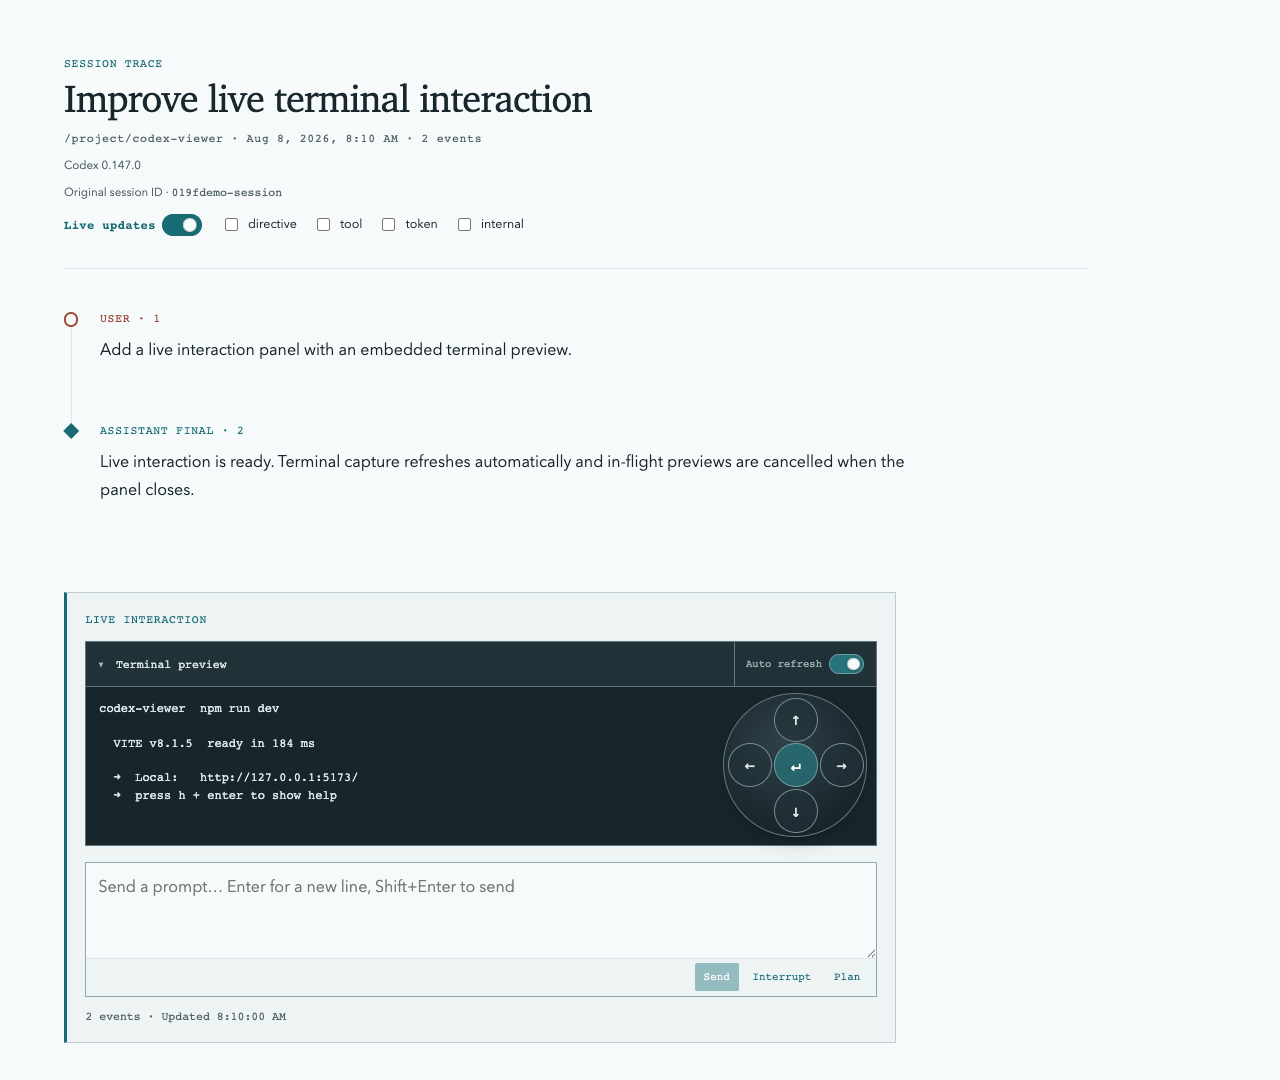
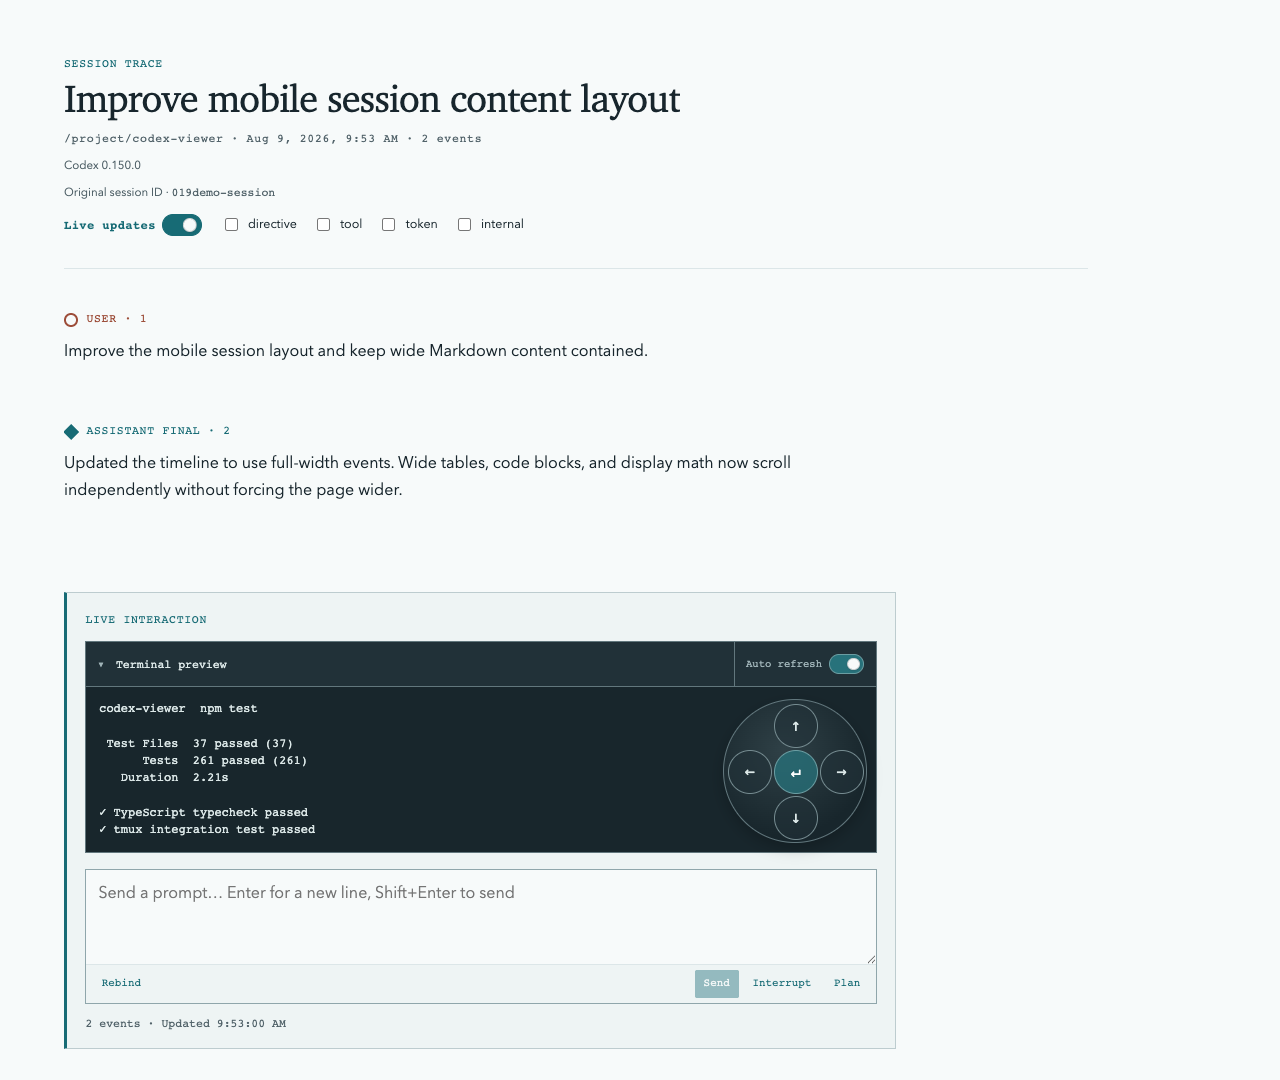
fix: improve mobile session content layout

diff --git a/src/client/styles/app.css b/src/client/styles/app.css
@@ -253,34 +253,63 @@
 }
 .event-toggle { flex: 0 0 auto; margin-top: 0; }
 .timeline { padding: 2.5rem 0 0; margin: 0; list-style: none; }
-.trace-event { --trace-color: var(--current); position: relative; display: grid; grid-template-columns: 2.25rem minmax(0, 1fr); padding-bottom: 2.5rem; content-visibility: auto; contain-intrinsic-size: auto 12rem; }
-.trace-event::before { content: ""; position: absolute; left: .45rem; top: .85rem; bottom: -.85rem; width: 1px; background: var(--mist); }
-.trace-event:last-child::before { display: none; }
+.trace-event { --trace-color: var(--current); position: relative; display: block; min-width: 0; padding-bottom: 2.5rem; content-visibility: auto; contain-intrinsic-size: auto 12rem; }
 .trace-event.human { --trace-color: var(--human); }
 .trace-event.tool { --trace-color: var(--signal); }
 .trace-event.user_input { --trace-color: var(--human); }
 .trace-event.directive { --trace-color: #7a4f2d; }
 .trace-event.internal { --trace-color: #68777c; }
 .trace-event.token { --trace-color: #496c65; }
-.trace-mark { position: relative; z-index: 1; width: .9rem; height: .9rem; margin-top: .22rem; background: var(--paper); border: 2px solid var(--trace-color); border-radius: 50%; }
+.trace-mark { position: absolute; z-index: 1; top: .22rem; left: 0; width: .9rem; height: .9rem; background: var(--paper); border: 2px solid var(--trace-color); border-radius: 50%; }
 .tool .trace-mark { border-radius: 1px; }
 .user_input .trace-mark { border-radius: 50% 50% 50% 2px; }
 .directive .trace-mark { border-style: dashed; border-radius: 1px; }
 .final .trace-mark { background: var(--current); transform: rotate(45deg) scale(.78); border-radius: 0; }
 .internal .trace-mark { border-style: dotted; }
 .token .trace-mark { border-radius: 50%; border-style: double; }
-.trace-event article { min-width: 0; max-width: 52rem; }
+.trace-event article { min-width: 0; width: 100%; max-width: 52rem; }
 .trace-event article > p { line-height: 1.72; }
 .event-label { margin-bottom: .55rem; color: var(--trace-color); text-transform: uppercase; }
+.trace-event .event-label { padding-inline-start: 1.4rem; }
+.user_input .trace-mark { top: 1.22rem; left: 1.1rem; }
 .message-body :is(p, li) { line-height: 1.7; }
-.message-body pre, .tool-detail pre, .directive-block {
+.message-body :is(p, h1, h2, h3, h4, h5, h6, li, a, code) {
+  min-width: 0; overflow-wrap: anywhere;
+}
+.markdown-scroll-region {
+  max-width: 100%; margin-block: 1em; overflow-x: auto; overflow-y: hidden;
+  border: 1px solid var(--mist); overscroll-behavior-inline: contain;
+  scrollbar-color: #8fa6ab transparent; scrollbar-width: thin;
+  -webkit-overflow-scrolling: touch;
+}
+.markdown-scroll-region:focus-visible {
+  outline: 2px solid var(--signal); outline-offset: 2px;
+}
+.markdown-scroll-region::-webkit-scrollbar { width: 10px; height: 10px; }
+.markdown-scroll-region::-webkit-scrollbar-track,
+.markdown-scroll-region::-webkit-scrollbar-corner { background: transparent; }
+.markdown-scroll-region::-webkit-scrollbar-thumb {
+  background-color: #8fa6ab; border: 2px solid transparent; border-radius: 999px;
+  background-clip: padding-box;
+}
+.markdown-scroll-code { background: #213138; border-left: 3px solid var(--current); }
+.markdown-scroll-code pre {
+  width: max-content; min-width: 100%; max-width: none; margin: 0; overflow: visible;
+  padding: 1rem; color: #dce8e8; background: transparent; white-space: pre;
+}
+.markdown-scroll-code code { overflow-wrap: normal; }
+.markdown-scroll-table { border: 0; }
+.markdown-scroll-table table { width: max-content; max-width: none; border-collapse: collapse; }
+.markdown-scroll-table :is(th, td) {
+  padding: .45rem .65rem; border: 1px solid var(--mist); text-align: start;
+}
+.markdown-scroll-math { padding: .2rem .35rem; border: 0; }
+.markdown-scroll-math .katex-display { width: max-content; min-width: 100%; margin: 0; }
+.tool-detail pre, .directive-block {
   max-width: 100%; overflow: auto; padding: 1rem; color: #dce8e8; background: #213138;
   border-left: 3px solid var(--current); white-space: pre-wrap; overflow-wrap: anywhere;
 }
 .message-body code { font-family: var(--mono-font); font-size: .86em; }
-.message-body .katex-display {
-  max-width: 100%; overflow-x: auto; overflow-y: hidden; padding: .2rem 0;
-}
 .message-body a { color: #075f70; text-underline-offset: .18em; }
 .image-placeholder { color: var(--ink-soft); font-style: italic; }
 .trace-event article button, .load-more, .error-state button {
@@ -352,7 +381,7 @@
 .token-usage dd { margin: 0; font-variant-numeric: tabular-nums; }
 .token-usage-unavailable { margin: 0; color: var(--ink-soft); font-size: .8rem; }
 .truncated { color: #7a4f2d; font-size: .8rem; }
-.load-more { margin-left: 2.25rem; }
+.load-more { margin-left: 0; }
 .diagnostics, .error-state {
   margin: 1.25rem 0; padding: .9rem 1rem; color: #653e2d; background: #fff4e9; border-left: 3px solid var(--signal);
 }
@@ -571,14 +600,15 @@
 @media (max-width: 480px) {
   .filters { grid-template-columns: minmax(0, 1fr); }
   .archive-scope { grid-column: auto; }
+  .message-body :is(ul, ol) { padding-inline-start: 1.25rem; }
+  .message-body :is(ul, ol) :is(ul, ol) { padding-inline-start: 1rem; }
+  .message-body blockquote { margin-inline: .65rem 0; padding-inline-start: .75rem; }
 }
 @media (prefers-reduced-motion: no-preference) {
-  .trace-event::before { animation: trace-draw 240ms ease-out both; transform-origin: top; }
   .disclosure-mark { transition: transform 140ms ease-out; }
   .plan-toggle-mark { transition: transform 140ms ease-out; }
   .auto-refresh-thumb { transition: transform 140ms ease; }
   .refresh-mark.active { animation: refresh-turn 800ms linear infinite; }
   .page-jump-control { transition: opacity 180ms ease, transform 180ms ease, color 120ms ease, background 120ms ease, border-color 120ms ease; }
-  @keyframes trace-draw { from { transform: scaleY(0); } to { transform: scaleY(1); } }
   @keyframes refresh-turn { to { transform: rotate(360deg); } }
 }

diff --git a/tests/client/session-browser-components.test.tsx b/tests/client/session-browser-components.test.tsx
@@ -232,6 +232,59 @@ describe("session browser components", () => {
     expect(document.querySelector(".katex-display .katex")).toBeInTheDocument();
     expect(document.querySelectorAll(".katex")).toHaveLength(3);
     expect(document.querySelectorAll(".katex-display .katex")).toHaveLength(1);
+    expect(document.querySelector("[node]")).toBeNull();
+  });
+
+  it("gives tables, code blocks, and display math independent accessible scroll regions", () => {
+    render(<MessageItem item={{
+      kind: "message", id: "message-wide-markdown", ordinal: 11, timestamp: null,
+      role: "assistant", phase: "final", itemType: null,
+      markdown: [
+        "| Column | Value |",
+        "| --- | --- |",
+        "| alpha | beta |",
+        "",
+        "```text",
+        "a very wide line that keeps its original code formatting",
+        "```",
+        "",
+        "$$",
+        "\\sum_{i=1}^{n} i = \\frac{n(n+1)}{2}",
+        "$$",
+      ].join("\n"),
+    }} />);
+
+    const tableRegion = screen.getByRole("region", { name: "Scrollable table" });
+    const codeRegion = screen.getByRole("region", { name: "Scrollable code block" });
+    const mathRegion = screen.getByRole("region", { name: "Scrollable math formula" });
+    expect(tableRegion).toHaveAttribute("tabindex", "0");
+    expect(codeRegion).toHaveAttribute("tabindex", "0");
+    expect(mathRegion).toHaveAttribute("tabindex", "0");
+    expect(tableRegion.querySelector(":scope > table")).toBeInTheDocument();
+    expect(codeRegion.querySelector(":scope > pre > code")).toBeInTheDocument();
+    expect(mathRegion.querySelector(":scope > .katex-display")).toBeInTheDocument();
+    expect(document.querySelector("[node]")).toBeNull();
+  });
+
+  it("keeps long prose, list items, links, inline code, and tokens as ordinary Markdown", () => {
+    const longToken = "unbroken-token-".repeat(20);
+    render(<MessageItem item={{
+      kind: "message", id: "message-wrapping", ordinal: 12, timestamp: null,
+      role: "assistant", phase: "final", itemType: null,
+      markdown: [
+        `Paragraph ${longToken}`,
+        "",
+        `- List ${longToken}`,
+        "",
+        `[Long link](https://example.com/${longToken}) and \`${longToken}\``,
+      ].join("\n"),
+    }} />);
+
+    expect(screen.getByText(new RegExp(`Paragraph ${longToken}`))).toBeInTheDocument();
+    expect(screen.getByText(new RegExp(`List ${longToken}`))).toBeInTheDocument();
+    expect(screen.getByRole("link", { name: "Long link" })).toBeInTheDocument();
+    expect(screen.getByText(longToken, { selector: "code" })).toBeInTheDocument();
+    expect(screen.queryByRole("region")).toBeNull();
   });
 
   it("leaves math syntax in code untouched and keeps invalid math readable", () => {

diff --git a/src/client/components/MessageItem.tsx b/src/client/components/MessageItem.tsx
@@ -3,7 +3,7 @@ import { gfmFromMarkdown } from "mdast-util-gfm";
 import { toString } from "mdast-util-to-string";
 import { gfm } from "micromark-extension-gfm";
 import { memo, useId, useMemo, useState } from "react";
-import ReactMarkdown, { defaultUrlTransform } from "react-markdown";
+import ReactMarkdown, { defaultUrlTransform, type ExtraProps } from "react-markdown";
 import rehypeKatex from "rehype-katex";
 import remarkGfm from "remark-gfm";
 import remarkMath from "remark-math";
@@ -25,7 +25,53 @@ const MARKDOWN_COMPONENTS = {
       [Image omitted{alt ? `: ${alt}` : ""}]
     </span>
   ),
+  table: ({ node: _node, children, ...props }: React.ComponentProps<"table"> & ExtraProps) => (
+    <MarkdownScrollRegion label="Scrollable table" kind="table">
+      <table {...props}>{children}</table>
+    </MarkdownScrollRegion>
+  ),
+  pre: ({ node: _node, children, ...props }: React.ComponentProps<"pre"> & ExtraProps) => (
+    <MarkdownScrollRegion label="Scrollable code block" kind="code">
+      <pre {...props}>{children}</pre>
+    </MarkdownScrollRegion>
+  ),
+  span: ({
+    node: _node,
+    className,
+    children,
+    ...props
+  }: React.ComponentProps<"span"> & ExtraProps) => {
+    if (className?.split(" ").includes("katex-display")) {
+      return (
+        <MarkdownScrollRegion label="Scrollable math formula" kind="math">
+          <span className={className} {...props}>{children}</span>
+        </MarkdownScrollRegion>
+      );
+    }
+    return <span className={className} {...props}>{children}</span>;
+  },
 };
+
+function MarkdownScrollRegion({
+  children,
+  kind,
+  label,
+}: {
+  children: React.ReactNode;
+  kind: "code" | "math" | "table";
+  label: string;
+}) {
+  return (
+    <div
+      className={`markdown-scroll-region markdown-scroll-${kind}`}
+      role="region"
+      aria-label={label}
+      tabIndex={0}
+    >
+      {children}
+    </div>
+  );
+}
 
 export function safeUrlTransform(url: string): string {
   try {

diff --git a/tests/client/interaction-panel.test.tsx b/tests/client/interaction-panel.test.tsx
@@ -217,7 +217,6 @@ describe("interaction panel", () => {
       .toHaveAttribute("aria-expanded", "true");
     const content = screen.getByLabelText("Terminal preview content");
     expect(content).toHaveAttribute("tabindex", "0");
-    expect(content).toHaveFocus();
     expect(content.scrollTop).toBe(480);
     scrollHeight.mockRestore();
   });
@@ -260,7 +259,6 @@ describe("interaction panel", () => {
     await user.click(header);
     expect(screen.queryByLabelText("Terminal preview content")).not.toBeInTheDocument();
     await user.click(header);
-    expect(screen.getByLabelText("Terminal preview content")).toHaveFocus();
     expect(screen.getByLabelText("Terminal preview content").scrollTop).toBe(640);
     scrollHeight.mockRestore();
   });
@@ -287,23 +285,6 @@ describe("interaction panel", () => {
     expect(refreshed).toBe(content);
     expect(refreshed).toHaveTextContent("fresh terminal output");
     expect(refreshed.scrollTop).toBe(120);
-  });
-
-  it("keeps focus on the toggle when an expanded preview is empty", async () => {
-    const handlers = props(interaction("connected"));
-    const user = userEvent.setup();
-    const { rerender } = render(<InteractionPanel {...handlers} />);
-    const header = screen.getByRole("button", { name: "Terminal preview" });
-
-    await user.click(header);
-    rerender(<InteractionPanel
-      {...handlers}
-      preview={{ content: "", truncated: false, capturedAt: "2026-08-08T12:00:00.000Z" }}
-    />);
-
-    expect(header).toHaveFocus();
-    expect(screen.queryByLabelText("Terminal preview content")).not.toBeInTheDocument();
-    expect(screen.getByText("The terminal pane is empty.")).toBeInTheDocument();
   });
 
   it("replaces timestamp and manual refresh with a default-on auto-refresh switch", async () => {

diff --git a/src/client/components/InteractionPanel.tsx b/src/client/components/InteractionPanel.tsx
@@ -55,7 +55,6 @@ export function InteractionPanel({
   const previewAutoRefreshLabelId = useId();
   const previewContent = useRef<HTMLPreElement | null>(null);
   const scrollOnExpand = useRef(preview !== null);
-  const focusOnExpand = useRef(false);
   const messageBytes = new TextEncoder().encode(message.replace(/\r\n?/g, "\n")).byteLength;
   const messageTooLarge = messageBytes > MAX_INTERACTION_MESSAGE_BYTES;
   const messageIsBlank = message.trim().length === 0;
@@ -63,17 +62,10 @@ export function InteractionPanel({
   useLayoutEffect(() => {
     if (!previewExpanded || preview === null) return;
     const content = previewContent.current;
-    if (content === null) {
-      focusOnExpand.current = false;
-      return;
-    }
+    if (content === null) return;
     if (scrollOnExpand.current) {
       content.scrollTop = content.scrollHeight;
       scrollOnExpand.current = false;
-    }
-    if (focusOnExpand.current) {
-      content.focus({ preventScroll: true });
-      focusOnExpand.current = false;
     }
   }, [preview, previewExpanded]);
   useEffect(() => {
@@ -146,7 +138,6 @@ export function InteractionPanel({
       return;
     }
     scrollOnExpand.current = true;
-    focusOnExpand.current = true;
     setPreviewExpanded(true);
     if (!previewAutoRefresh && pageVisible) {
       void onPreviewTerminal().catch(() => undefined);

diff --git a/tests/client/session-browser-items.test.tsx b/tests/client/session-browser-items.test.tsx
@@ -95,6 +95,30 @@ describe("session reader items", () => {
     expect(screen.getByRole("button", { name: "Load more events" })).toBeEnabled();
   });
 
+  it("keeps one mark per full-width timeline event", () => {
+    render(<Timeline
+      items={[
+        message("message-mark", 1, "Message body"),
+        { kind: "internal", id: "internal-mark", ordinal: 2, timestamp: null,
+          eventType: "reasoning", summary: "Internal body" },
+      ]}
+      sessionId={SESSION_ID}
+      cursor={TIMELINE_CURSOR}
+      hasMore
+      loading={false}
+      onLoadMore={vi.fn()}
+      onTimelineConflict={vi.fn()}
+    />);
+
+    const events = document.querySelectorAll(".trace-event");
+    expect(events).toHaveLength(2);
+    for (const event of events) {
+      const mark = event.querySelector(":scope > .trace-mark");
+      expect(mark).toHaveAttribute("aria-hidden", "true");
+      expect(event.querySelector(":scope > article")).toBeInTheDocument();
+    }
+  });
+
   it("loads tool and directive details concurrently without changing their cursor", async () => {
     const pending: Array<(response: Response) => void> = [];
     const fetchMock = vi.fn((_input: RequestInfo | URL) => new Promise<Response>((resolve) => pending.push(resolve)));

diff --git a/src/client/components/Timeline.tsx b/src/client/components/Timeline.tsx
@@ -11,7 +11,7 @@ import {
   UserInputItem,
   type UserInputCardEntry,
 } from "./UserInputItem";
-import { TraceGutter } from "./TraceGutter";
+import { EventMark } from "./EventMark";
 
 interface TimelineProps {
   items: TimelineItem[];
@@ -45,7 +45,7 @@ export const Timeline = memo(function Timeline({
             className={`trace-event ${classFor(item)}`}
             key={`${sessionId}:${item.id}`}
           >
-            <TraceGutter item={item} />
+            <EventMark item={item} />
             <TimelineContent
               item={item}
               sessionId={sessionId}

diff --git a/src/client/components/EventMark.tsx b/src/client/components/EventMark.tsx
@@ -1,5 +1,5 @@
 import type { TimelineItem } from "../../shared/domain";
 
-export function TraceGutter({ item }: { item: Pick<TimelineItem, "kind"> }) {
+export function EventMark({ item }: { item: Pick<TimelineItem, "kind"> }) {
   return <span className="trace-mark" aria-hidden="true" data-kind={item.kind} />;
 }
